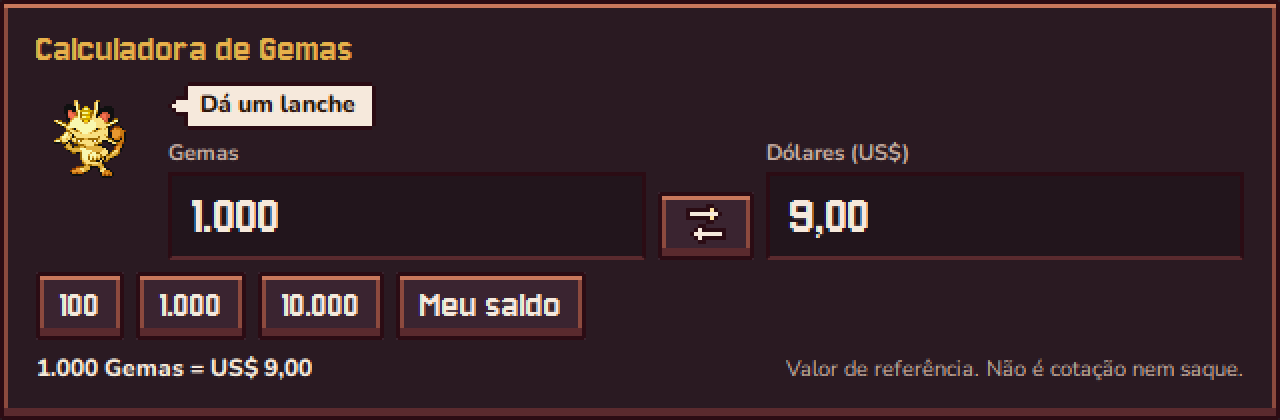
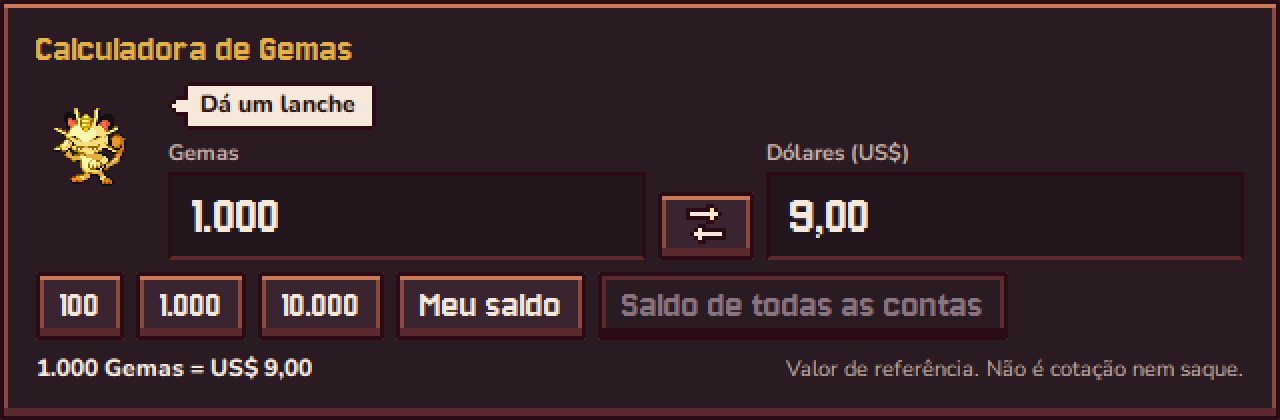
Calculadora: ficha "Saldo de todas as contas"
Soma as Gemas das contas conectadas (só lê o que o jogo já mandou para cada
conta; conta sem conexão ou sem saldo fica fora). A dica diz quantas contas
entraram e o total.

Changed region(s): [[0.4688, 0.65, 0.7812, 0.7738], [0.0312, 0.2476, 0.125, 0.4333]]

diff --git a/app/rmt_ui.py b/app/rmt_ui.py
@@ -391,6 +391,12 @@ class CalculadoraGemas(Moldura):
         self.b_saldo.setObjectName("tool")
         self.b_saldo.clicked.connect(lambda: self._saldo is not None and self.usar_gemas(self._saldo))
         fichas.addWidget(self.b_saldo)
+        # a soma das Gemas das contas conectadas (pedido do usuário, 19/10/2026)
+        self._todas: tuple[int, int] | None = None          # (soma, quantas contas)
+        self.b_todas = Botao("Saldo de todas as contas")
+        self.b_todas.setObjectName("tool")
+        self.b_todas.clicked.connect(lambda: self._todas is not None and self.usar_gemas(self._todas[0]))
+        fichas.addWidget(self.b_todas)
         fichas.addStretch()
         for b in (fichas.itemAt(i).widget() for i in range(fichas.count())):
             if b:
@@ -403,6 +409,7 @@ class CalculadoraGemas(Moldura):
         base.addWidget(_rot("Valor de referência. Não é cotação nem saque.", "muted", "font-size:11px;"))
         v.addLayout(base)
         self.set_saldo(None)
+        self.set_saldo_todas([])
         self._calcular("gemas")
 
     def _campo(self, rotulo: str, dolares: bool):
@@ -464,6 +471,21 @@ class CalculadoraGemas(Moldura):
         self.b_saldo.setToolTip("Conecte a conta para usar o saldo dela" if gemas is None
                                 else f"Usa as Gemas desta conta ({cg.formatar_gemas(gemas)})")
 
+    def set_saldo_todas(self, saldos):
+        """As Gemas de cada conta (None = conta sem conexão). A ficha usa a soma das conectadas."""
+        vals = [int(g) for g in saldos if g is not None]
+        novo = (sum(vals), len(vals)) if vals else None
+        if novo == self._todas and self.b_todas.toolTip():
+            return
+        self._todas = novo
+        self.b_todas.setEnabled(novo is not None)
+        if novo is None:
+            dica = "Conecte uma conta para usar a soma das Gemas"
+        else:
+            quem = "da conta conectada" if novo[1] == 1 else f"das {novo[1]} contas conectadas"
+            dica = f"Soma as Gemas {quem} ({cg.formatar_gemas(novo[0])})"
+        self.b_todas.setToolTip(dica)
+
 
 # ============================================================ o painel
 class RmtPanel(QScrollArea):
@@ -471,6 +493,7 @@ class RmtPanel(QScrollArea):
     parar_todos = Signal()         # desliga todas as compras, em todas as contas
     guia_visto = Signal()          # a pessoa já viu (ou dispensou) o guia
     _calc_aberta = False           # calculadora aberta ou fechada: só na memória (não vai para o config.toml)
+    saldos = None                  # () -> [Gemas de cada conta, None = sem conexão] (a janela principal passa)
 
     def __init__(self):
         super().__init__()
@@ -674,6 +697,8 @@ class RmtPanel(QScrollArea):
         s = v["saldo"]
         self.saldo.setText(f"{num(s['gold'])} ouro  {num(s['orb'])} gema")
         self.calc.set_saldo(s["orb"] if v["conectada"] else None)
+        if self.saldos is not None:
+            self.calc.set_saldo_todas(self.saldos())
         parada = rot._conta_parada() if any(i.ligado for i in v["itens"]) else None
         if not v["conectada"]:
             sit, cor = "A conta não está conectada: inicie a conta para o Mercado poder comprar.", T["dim"]

diff --git a/ferramentas/calculadora/tela.py b/ferramentas/calculadora/tela.py
@@ -267,6 +267,41 @@ def testes():
     foto("teste_sem_conta", c)
     SALDO["conectada"] = True
     rp.render(win.selected, m.workers[win.selected])
+    # Saldo de todas as contas (a soma das conectadas)
+    if "Saldo de todas as contas" in fichas:
+        bt = fichas["Saldo de todas as contas"]
+        confere("todas: sem conta conectada, apagada", (bt.isEnabled(), "Conecte uma conta" in bt.toolTip()), (False, True))
+        real = rp.saldos
+        for saldos, ligada, dica, campos in (
+                ([12_345, None, 1_000, 500], True, "Soma as Gemas das 3 contas conectadas (13.845)", ("13.845", "124,60")),
+                ([None, 777, None, None], True, "Soma as Gemas da conta conectada (777)", ("777", "6,99")),
+                ([0, 0, None, None], True, "Soma as Gemas das 2 contas conectadas (0)", ("0", "0,00")),
+                ([400_000_000, 300_000_000, 200_000_000, 150_000_000], True,
+                 "Soma as Gemas das 4 contas conectadas (1.050.000.000)", ("1.050.000.000", "9.450.000,00")),
+                ([None, None, None, None], False, "Conecte uma conta para usar a soma das Gemas", None)):
+            rp.saldos = lambda s=saldos: s
+            rp.render(win.selected, m.workers[win.selected])
+            confere(f"todas {saldos}: ligada e dica", (bt.isEnabled(), bt.toolTip()), (ligada, dica))
+            if campos:
+                bt.click()
+                qapp.processEvents()
+                confere(f"todas {saldos}: campos", (eg.text(), ed.text()), campos)
+        # o caminho de verdade da janela principal: as Gemas que cada conta conectada já recebeu do jogo
+        from types import SimpleNamespace as NS
+        rp.saldos = real
+        guardados = [w.game for w in m.workers]
+        jogos = [NS(welcomed=True, eu={"orbs": 1_500}), NS(welcomed=False, eu={"orbs": 9_999}),
+                 NS(welcomed=True, eu={"orbs": 2_500.0}), NS(welcomed=True, eu={})]
+        for w, j in zip(m.workers, jogos):
+            w.game = j
+        confere("janela: lê só as conectadas (sem saldo ainda = fora)", real(), [1_500, None, 2_500.0, None])
+        for w, j in zip(m.workers, guardados):
+            w.game = j
+        rp.calc.set_saldo_todas([1_500, None, 2_500.0, None])
+        bt.click()
+        qapp.processEvents()
+        confere("janela: soma 1.500 + 2.500", eg.text(), "4.000")
+        rp.render(win.selected, m.workers[win.selected])
     # roda do mouse em cima dos campos e das fichas: nenhum valor muda
     digitar(eg, "1000")
     antes = (eg.text(), ed.text())

diff --git a/app/gui.py b/app/gui.py
@@ -986,6 +986,8 @@ class MainWindow(QMainWindow):
         self.game.layout_todas.connect(self._trocar_layout_todas)
         rp = self.game.rmt_panel
         rp.parar_todos.connect(self.m.rmt_parar_todos)
+        # "Saldo de todas as contas" da calculadora: as Gemas que cada conta conectada já mostra (só lê)
+        rp.saldos = lambda: [w.game.eu.get("orbs") if w.game and w.game.welcomed else None for w in self.m.workers]
         rp.set_convite(not self.cfg["janela"].get("guia_mercado_visto", False))
         rp.guia_visto.connect(self._guia_mercado_visto)
         # Pokédex (app/pokedex_ui.py): os dados vivem sempre (só guardam as espécies novas); a tela só nasce

diff --git a/README.md b/README.md
@@ -289,7 +289,8 @@ PokeIdle permitem automação no Mercado (seção 5).
 **Calculadora de Gemas:** o botão **Calculadora**, no cartão do Saldo, abre uma conta de Gemas para
 dólares e de dólares para Gemas, com o Meowth dando palpite. A taxa é de **referência** (1.000 Gemas =
 US$ 9,00), não é cotação nem saque. Digitar num campo atualiza o outro; as fichas **100**, **1.000**,
-**10.000** e **Meu saldo** (as Gemas da conta, com ela conectada) preenchem as Gemas. Ela **só calcula**:
+**10.000**, **Meu saldo** (as Gemas da conta, com ela conectada) e **Saldo de todas as contas** (a soma das
+Gemas das contas conectadas; a dica diz quantas) preenchem as Gemas. Ela **só calcula**:
 não compra, não liga item, não grava nada e não acessa a internet. Aberta ou fechada vale até você fechar o
 programa. A taxa fica em `app/conversor_gemas.py` (`GEMAS_REF`, `CENTAVOS_REF`) e as falas do Meowth em
 `app/textos_guia.py` (`FRASES_MEOWTH`).
